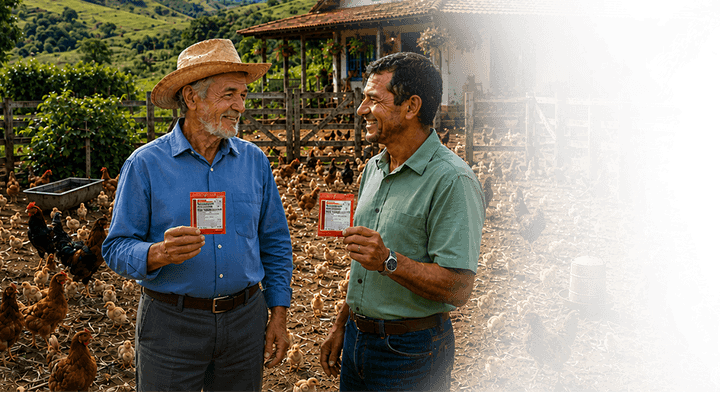
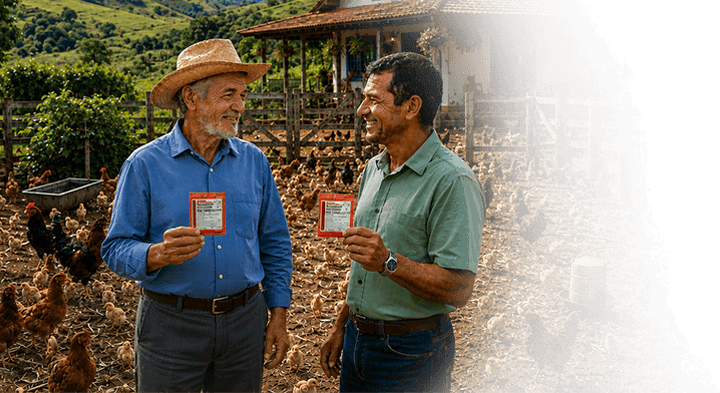
Create trajetoria section html/css

diff --git a/styles/trajetoria.css b/styles/trajetoria.css
@@ -1,0 +1,75 @@
+.trajetoria-section {
+    background-color: #ffffff;
+    width: 100%;
+    display: block;
+    padding: 0;
+    overflow: hidden;
+}
+
+.trajetoria-container {
+    width: 100%;
+    max-width: 1440px;
+    margin: 0 auto;
+    display: flex;
+    align-items: center;
+    justify-content: space-between;
+    gap: 4rem;
+    padding-left: 100px; /* Encosta a imagem exatamente na linha guia esquerda */
+    padding-right: 0px; /* Respiro direito */
+    background-color: var(--blue-2, #002975);
+}
+
+.trajetoria-content {
+    flex: 1;
+    max-width: 520px;
+    font-family: var(--ff-arimo, sans-serif);
+}
+
+.trajetoria-content h2 {
+    font-family: var(--ff-arimo, sans-serif);
+    font-size: var(--fs-xxl, 2.5rem);
+    font-weight: var(--fw-bold, 700);
+    color: var(--white, #FFFFFF);
+    margin-bottom: 1.5rem;
+    margin-bottom: 1.5rem;
+}
+
+.trajetoria-content p {
+    font-family: var(--ff-arimo, sans-serif);
+    font-size: var(--fs-base, 1.125rem);
+    color: var(--white, #FFFFFF);
+    line-height: 1.6;
+    margin-bottom: 1.2rem;
+}
+
+.trajetoria-content p.highlight-text {
+    color: var(--orange, #FFA800);
+    font-weight: var(--fw-bold, 700);
+}
+
+.trajetoria-image-wrapper {
+    position: relative;
+    flex: 1;
+    max-width: 680px;
+}
+
+.trajetoria-image-wrapper img {
+    width: 100%;
+    height: auto;
+    display: block;
+}
+
+@media (max-width: 1024px) {
+    .trajetoria-container {
+        flex-direction: column-reverse;
+        padding: 4rem 1.25rem;
+        gap: 2.5rem;
+    }
+    .trajetoria-content {
+        max-width: 100%;
+        text-align: center;
+    }
+    .trajetoria-image-wrapper {
+        max-width: 100%;
+    }
+}

diff --git a/index.html b/index.html
@@ -68,5 +68,32 @@
             </div>
         </div>
     </section>
+
+    <section class="trajetoria-section">
+        <div class="trajetoria-container">
+
+            <div class="trajetoria-content">
+                <h2>Uma trajetória<br>de confiança</h2>
+                <p class="highlight-text">
+                    Desde seu registro em 1959, a Terramicina<sup>®</sup> Pó Solúvel tornou-se 
+                    sinônimo de eficácia no campo.
+                </p>
+
+                <p>
+                    Sua fórmula robusta foi desenvolvida para combater infecções em diversas 
+                    espécies, garantindo saúde e produtividade ao pequeno produtor.
+                </p>
+
+                <p>
+                    Hoje, a Phibro Saúde Animal honra esse legado, trazendo inovação e modernidade 
+                    sem abrir mão da fórmula original que você já conhece e confia.
+                </p>
+            </div>
+
+            <div class="trajetoria-image-wrapper">
+                <img src="assets/img/trajetoria-desk.png" alt="Uma trajetória de confiança" />
+            </div>
+        </div>
+    </section>
 </body>
 </html> 

diff --git a/styles/index.css b/styles/index.css
@@ -3,3 +3,4 @@
 @import url(./hero.css);
 @import url(./power.css);
 @import url(./tradicao.css);
+@import url(./trajetoria.css);
